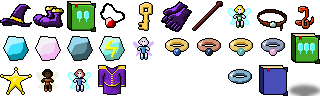
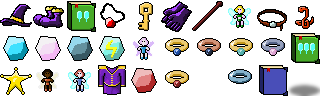
ADD New items : Fire gem + ring
And fire shot implementation

Changed region(s): [[0.4062, 0.6875, 0.5938, 0.9688]]

diff --git a/src/Items.h b/src/Items.h
@@ -22,7 +22,7 @@ const int SPECIAL_SHOT_SLOTS = 1 + SPECIAL_SHOT_SLOTS_STANDARD + SPECIAL_SHOT_SL
 enum enumRarity
 {
   RarityCommon,  /**< Common */
-  RarityUnommon, /**< Uncommon */
+  RarityUncommon, /**< Uncommon */
   RarityRare     /**< Rare */
 };
 
@@ -77,6 +77,8 @@ enum enumItemType
   ItemFairyFire,
   ItemFairyTarget,
   ItemMagicianRobe,
+  ItemGemFire,
+  ItemRingFire,
 
   NUMBER_ITEMS
 };
@@ -178,7 +180,7 @@ const itemStuct items[NUMBER_ITEMS] =
   },
   {
     ItemBloodSnake, "Blood Snake", "Increases damage",
-    20, true, FamiliarNone, true, true, true, 1, RarityUnommon, AlignmentNone, -1, ShotTypeStandard
+    20, true, FamiliarNone, true, true, true, 1, RarityUncommon, AlignmentNone, -1, ShotTypeStandard
   },
   {
     ItemGemIce, "Ice Gem", "Ice attack (freeze)",
@@ -186,7 +188,7 @@ const itemStuct items[NUMBER_ITEMS] =
   },
   {
     ItemGemIllusion, "Illusion Gem", "Illusion attack (ignore walls)",
-    25, true, FamiliarNone, true, true, true, 4, RarityUnommon, AlignmentDark, -1, ShotTypeIllusion
+    30, true, FamiliarNone, true, true, true, 4, RarityUncommon, AlignmentDark, -1, ShotTypeIllusion
   },
   {
     ItemGemStone, "Stone Gem", "Stone attack (repulse)",
@@ -198,23 +200,23 @@ const itemStuct items[NUMBER_ITEMS] =
   },
   {
     ItemFairyIce, "Fairy Natasha", "Helps you in the dungeon",
-    40, true, FamiliarFairyIce, false, true, true, 2, RarityUnommon, AlignmentNone, -1, ShotTypeStandard
+    40, true, FamiliarFairyIce, false, true, true, 2, RarityUncommon, AlignmentNone, -1, ShotTypeStandard
   },
   {
     ItemRingIce, "Sapphire Ring", "Increases ice power",
-    45, true, FamiliarNone, true, true, true, 3, RarityUnommon, AlignmentNone, ItemGemIce, ShotTypeStandard
+    45, true, FamiliarNone, true, true, true, 3, RarityUncommon, AlignmentNone, ItemGemIce, ShotTypeStandard
   },
   {
     ItemRingStone, "Obsidian Ring", "Increases stone power",
-    45, true, FamiliarNone, true, true, true, 3, RarityUnommon, AlignmentNone, ItemGemStone, ShotTypeStandard
+    45, true, FamiliarNone, true, true, true, 3, RarityUncommon, AlignmentNone, ItemGemStone, ShotTypeStandard
   },
   {
     ItemRingLightning, "Opal Ring", "Increases lightning power",
-    45, true, FamiliarNone, true, true, true, 3, RarityUnommon, AlignmentNone, ItemGemLightning, ShotTypeStandard
+    45, true, FamiliarNone, true, true, true, 3, RarityUncommon, AlignmentNone, ItemGemLightning, ShotTypeStandard
   },
   {
     ItemRingIllusion, "Quartz Ring", "Increases illusion power",
-    45, true, FamiliarNone, true, true, true, 4, RarityUnommon, AlignmentNone, ItemGemIllusion, ShotTypeStandard
+    50, true, FamiliarNone, true, true, true, 4, RarityUncommon, AlignmentDark, ItemGemIllusion, ShotTypeStandard
   },
   {
     ItemBookTripleShots, "Spell : Triple Bolts", "Shoots three bolts",
@@ -226,15 +228,23 @@ const itemStuct items[NUMBER_ITEMS] =
   },
   {
     ItemFairyFire, "Fairy Alicia", "Helps you in the dungeon",
-    40, true, FamiliarFairyFire, false, true, true, 2, RarityUnommon, AlignmentNone, -1, ShotTypeStandard
+    40, true, FamiliarFairyFire, false, true, true, 2, RarityUncommon, AlignmentNone, -1, ShotTypeStandard
   },
   {
     ItemFairyTarget, "Fairy Scarlett", "Helps you in the dungeon",
-    40, true, FamiliarFairyTarget, false, true, true, 2, RarityUnommon, AlignmentNone, -1, ShotTypeStandard
+    40, true, FamiliarFairyTarget, false, true, true, 2, RarityUncommon, AlignmentNone, -1, ShotTypeStandard
   },
   {
     ItemMagicianRobe, "Magician's Robe", "Increases armor",
     25, true, FamiliarNone, true, true, true, 1, RarityCommon, AlignmentNone, -1, ShotTypeStandard
+  },
+  {
+    ItemGemFire, "Fire Gem", "Fire attack (more damage)",
+    30, true, FamiliarNone, true, true, true, 4, RarityUncommon, AlignmentLight, -1, ShotTypeFire
+  },
+  {
+    ItemRingStone, "Rubis Ring", "Increases fire power",
+    50, true, FamiliarNone, true, true, true, 4, RarityUncommon, AlignmentLight, ItemGemFire, ShotTypeStandard
   }
 };
 
@@ -266,6 +276,8 @@ enum item_equip_enum {
   EQUIP_FAIRY_FIRE,
   EQUIP_FAIRY_TARGET,
   EQUIP_MAGICIAN_ROBE,
+  EQUIP_GEM_FIRE,
+  EQUIP_RING_FIRE,
 
   NUMBER_EQUIP_ITEMS
   };

diff --git a/src/PlayerEntity.cpp b/src/PlayerEntity.cpp
@@ -21,7 +21,7 @@ PlayerEntity::PlayerEntity(float x, float y)
 
   imagesProLine = 8;
   playerStatus = playerStatusPlaying;
-  hp = INITIAL_PLAYER_HP;
+  hp = INITIAL_PLAYER_HP * 15;
   hpDisplay = hp;
   hpMax = hp;
   gold = 0;
@@ -396,9 +396,11 @@ void PlayerEntity::renderStaff(sf::RenderTarget* app)
     case ShotTypeIce:
       sprite.setColor(sf::Color(100, 220, 255, 255));
       break;
+
     case ShotTypeStone:
       sprite.setColor(sf::Color(120, 120, 150, 255));
       break;
+
     case ShotTypeLightning:
       sprite.setColor(sf::Color(255, 255, 0, 255));
       break;
@@ -409,6 +411,10 @@ void PlayerEntity::renderStaff(sf::RenderTarget* app)
 
     case ShotTypeStandard:
       sprite.setColor(sf::Color(255, 255, 255, 0));
+      break;
+
+    case ShotTypeFire:
+      sprite.setColor(sf::Color(255, 180, 0, 255));
       break;
     }
 
@@ -460,7 +466,7 @@ void PlayerEntity::render(sf::RenderTarget* app)
   }
 
   // gems
-  if ((getShotType() == ShotTypeIce || getShotType() == ShotTypeLightning)  && playerStatus != playerStatusDead)
+  if ((getShotType() == ShotTypeIce || getShotType() == ShotTypeLightning || getShotType() == ShotTypeFire)  && playerStatus != playerStatusDead)
   {
     int fade;
     sf::Color savedColor = sprite.getColor();
@@ -469,11 +475,16 @@ void PlayerEntity::render(sf::RenderTarget* app)
 
     if (getShotType() == ShotTypeLightning)
       fade = 150 + rand() % 105;
+    if (getShotType() == ShotTypeFire)
+      fade = 200 + rand() % 40;
 
     if (getShotType() == ShotTypeIce)
       sprite.setTextureRect(sf::IntRect(320, 0, 20, 20));
     else if (getShotType() == ShotTypeLightning)
       sprite.setTextureRect(sf::IntRect(340, 0, 20, 20));
+    else if (getShotType() == ShotTypeFire)
+      sprite.setTextureRect(sf::IntRect(360, 0, 20, 20));
+
     sprite.setColor(sf::Color(255, 255, 255, fade));
 
     if (isMoving() || firingDirection != 5)
@@ -667,6 +678,7 @@ void PlayerEntity::generateBolt(float velx, float vely)
   case ShotTypeIllusion:
   case ShotTypeStone:
   case ShotTypeLightning:
+  case ShotTypeFire:
     boltType = getShotType();
     shotLevel = getShotLevel();
     break;
@@ -957,8 +969,11 @@ void PlayerEntity::computePlayer()
       specialShotLevel[i]++;
     if (specialShots[i] == ShotTypeIllusion && equip[EQUIP_RING_ILLUSION])
       specialShotLevel[i]++;
+    if (specialShots[i] == ShotTypeFire && equip[EQUIP_RING_FIRE])
+      specialShotLevel[i]++;
   }
-  if (getShotType() == ShotTypeIllusion) fireDamages *= ILLUSION_DAMAGES_DECREASE[getShotLevel()];
+  if (getShotType() == ShotTypeIllusion) fireDamages *= ILLUSION_DAMAGE_DECREASE[getShotLevel()];
+  else if (getShotType() == ShotTypeFire) fireDamages *= FIRE_DAMAGE_INCREASE[getShotLevel()];
 }
 
 void PlayerEntity::acquireStance(enumItemType type)

diff --git a/src/Constants.h b/src/Constants.h
@@ -232,12 +232,14 @@ const float STATUS_FROZEN_MULT[MAX_SHOT_LEVEL]   // speed multiplier (= 3 times 
     = { 0.38f, 0.33f, 0.28f };
 const float STONE_DECOIL_DELAY[MAX_SHOT_LEVEL]   // how long the stun occurs
     = { 0.15f, 0.3f, 0.5f };
-const float STONE_DECOIL_VELOCITY[MAX_SHOT_LEVEL]   // Decoil power
+const float STONE_DECOIL_VELOCITY[MAX_SHOT_LEVEL]   // Decoil velocity
     = { 110.0f, 160.0f, 220.0f };
-const float ILLUSION_DAMAGES_DECREASE[MAX_SHOT_LEVEL]   // Decoil power
+const float ILLUSION_DAMAGE_DECREASE[MAX_SHOT_LEVEL]   // Illusion damage malus
     = { 0.8f, 0.9f, 1.0f };
-const float LIGHTNING_VISCOSITY_INCREASE[MAX_SHOT_LEVEL]   // Decoil power
+const float LIGHTNING_VISCOSITY_INCREASE[MAX_SHOT_LEVEL]   // Air resistance
     = { 0.01, 0.015f, 0.02f };
+const float FIRE_DAMAGE_INCREASE[MAX_SHOT_LEVEL]   // Fire damage's bonus
+    = { 1.15f, 1.3f, 1.45f };
 
 // entity type
 const int ENTITY_PLAYER = 1;

diff --git a/src/WitchBlastGame.cpp b/src/WitchBlastGame.cpp
@@ -1487,7 +1487,7 @@ item_equip_enum WitchBlastGame::getRandomEquipItem(bool toSale = false, bool noF
       switch (items[eq].rarity)
       {
         case RarityCommon:  n = 4; break;
-        case RarityUnommon: n = 2; break;
+        case RarityUncommon: n = 2; break;
         case RarityRare:    n = 1; break;
       }
       for (int j = 0; j < n; j++)
